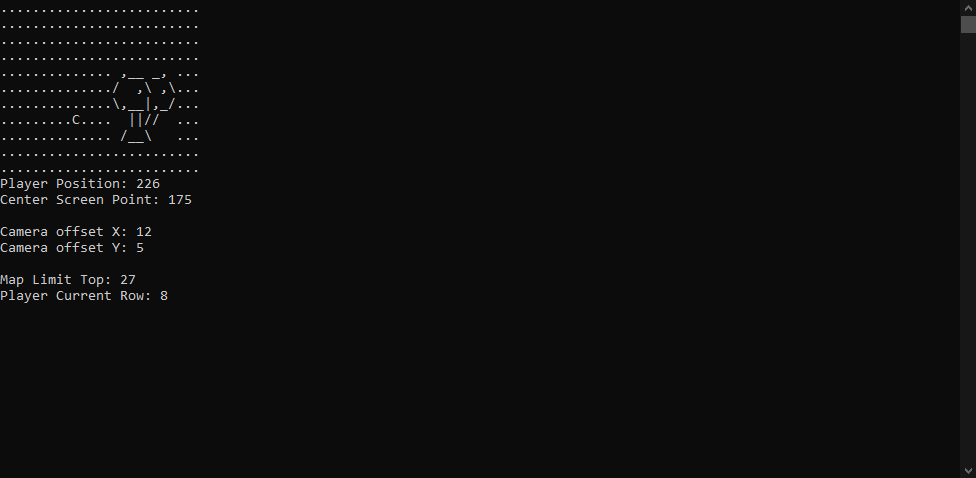
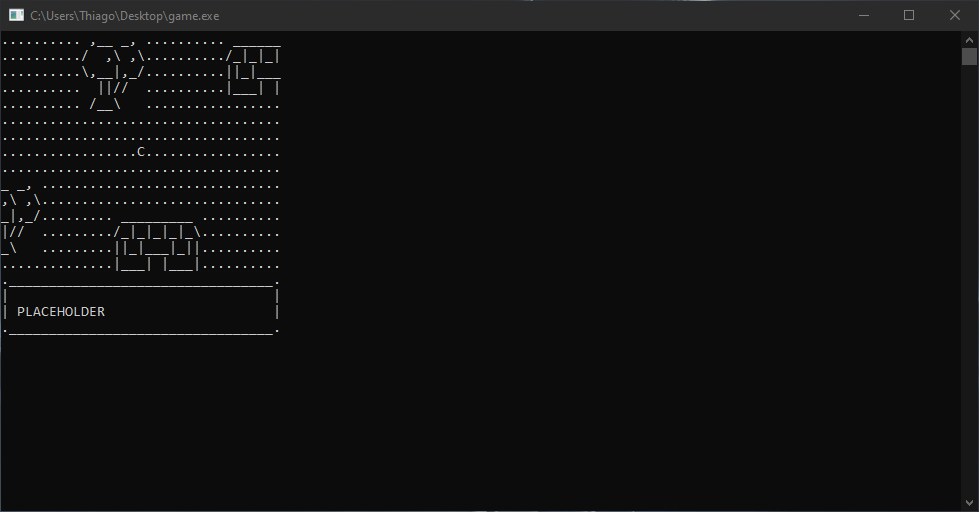
map Generation modified and README updated

Changed region(s): [[0.0, 0.0, 1.0, 0.5272], [0.0, 0.9665, 1.0, 1.0], [0.0, 0.5565, 0.2766, 0.6736]]

diff --git a/game.cpp b/game.cpp
@@ -2,8 +2,8 @@
 #include <conio.h>
 #include <vector>
 #include <windows.h>
-
-#define teste 11;
+#include <fstream>
+#include <math.h>
 
 using namespace std;
 
@@ -11,69 +11,75 @@ char player = 'C';
 char blankSpace = '.';
 char currentBeneathBlock = ' ';
 
-int mapSizeX=27,mapSizeY=13;
+vector<char> map;
 
-int mapSize = mapSizeX * mapSizeY;
+int mapSizeX=55,mapSizeY=25;
+int mapSize;
 
-int screenSizeX = 25,screenSizeY=11;
+int screenSizeX = 35,screenSizeY=15;
 
 int startCameraOffX = screenSizeX/2, startCameraOffY = screenSizeY/2;
 int cameraOffX = startCameraOffX, cameraOffY = startCameraOffY;
 
-int centerScreenPoint = mapSize/2;
-int startPlayerPos = mapSize/2;
-int playerPos = startPlayerPos;
+int centerScreenPoint;
+int playerPos;
 
 int currentPlayerRow;
 int currentScreenRow;
 
-vector<char> map;
-
-char house[4][11] = 
-{
-	{' ','_','_','_','_','_','_','_','_','_',' '},
-	{'/','_','|','_','|','_','|','_','|','_','\\'},
-	{'|','|','_','|','_','_','_','|','_','|','|'},
-	{'|','_','_','_','|',' ','|','_','_','_','|'}
+char inventory[4][35]{
+	{'.','_','_','_','_','_','_','_','_','_','_','_','_','_','_','_','_','_','_','_','_','_','_','_','_','_','_','_','_','_','_','_','_','_','.'},
+	{'|',' ',' ',' ',' ',' ',' ',' ',' ',' ',' ',' ',' ',' ',' ',' ',' ',' ',' ',' ',' ',' ',' ',' ',' ',' ',' ',' ',' ',' ',' ',' ',' ',' ','|'},
+	{'|',' ','P','L','A','C','E','H','O','L','D','E','R',' ',' ',' ',' ',' ',' ',' ',' ',' ',' ',' ',' ',' ',' ',' ',' ',' ',' ',' ',' ',' ','|'},
+	{'.','_','_','_','_','_','_','_','_','_','_','_','_','_','_','_','_','_','_','_','_','_','_','_','_','_','_','_','_','_','_','_','_','_','.'}
 };
 
-char tree[5][8] = 
-{
-	{' ',',','_','_',' ','_',',',' '},
-	{'/',' ',' ',',','\\',' ',',','\\'},
-	{'\\',',','_','_','|',',','_','/'},
-	{' ',' ','|','|','/','/',' ',' '},
-	{' ','/','_','_','\\',' ',' ',' '}
-};
+void readMap(){
+	ifstream mapFile( "map.txt" );
+  
+  for(string line; getline( mapFile, line ); )
+	{
+		for(int i = 0; i < line.size(); i++)
+		{
+			map.push_back(line[i]);
+		} 		
+	}
+	
+	mapFile.close();
+}
 
-void drawObj(int startHousePos,void *arr, int y,int x)
-{
+void setupInitialVar(){
+	mapSize = map.size();
+	centerScreenPoint = mapSize/2;
+	playerPos = mapSize/2;
+}
+
+void drawInventory(void *arr, int y,int x){
 	char (*obj)[y][x] = (char (*)[y][x]) arr;
 	
 	int arrayRow = y;
 	int arrayCol = x;
 		
-	int objPos = startHousePos;
 	for(int i=0;i < arrayRow; i++)
 	{
 		for(int x=0; x < arrayCol; x++)
-			map[objPos + x] = (*obj)[i][x];
-		objPos += mapSizeX;
-	}	
+			cout << (*obj)[i][x];
+		cout << "\n";
+	}
 }
 
-void createMap()
-{
-	for(int i=0; i<mapSize; i++)
-	{
-		map.push_back('.');
+void drawMapView(){
+	int centerDiagonalLeft = centerScreenPoint - (mapSizeX * cameraOffY) - cameraOffX;
+	int currentRow = 0;
+	for(int y=0;y < screenSizeY; y++)
+	{ 		
+		for(int x = centerDiagonalLeft + currentRow; x < centerDiagonalLeft + screenSizeX + currentRow; x++)
+		{
+			cout << map[x];
+		}
+		cout << "\n";
+		currentRow += mapSizeX;
 	}
-	
-	/// Drawing objs
-	// Houses
-	//drawObj(970,house,4,11);
-	// Trees
-	drawObj(150,tree,5,8);
 }
 
 void debugInfo()
@@ -92,23 +98,14 @@ void debugInfo()
 	cout << "Screen Current Row: " << currentScreenRow << endl;
 }
 
-void drawMap()
+void drawScreen()
 {
 	system("cls");
 	
-	int centerDiagonalLeft = centerScreenPoint - (mapSizeX * cameraOffY) - cameraOffX;
-	int currentRow = 0;
-	for(int y=0;y < screenSizeY; y++)
-	{ 		
-		for(int x = centerDiagonalLeft + currentRow; x < centerDiagonalLeft + screenSizeX + currentRow; x++)
-		{
-			cout << map[x];
-		}
-		cout << "\n";
-		currentRow += mapSizeX;
-	}	
+	drawMapView();
+	drawInventory(inventory,4,35);
 	
-	debugInfo();
+	//debugInfo();
 }
 
 void updatePlayerPos(int newPos)
@@ -142,7 +139,7 @@ void playerMov()
 		{
 			updateScreen(centerScreenPoint-mapSizeX);	
 		}			
-		drawMap();
+		drawScreen();
 	}	
 	else if (ch=='s'){		
 		if((currentPlayerRow+1) < mapSizeY){
@@ -151,7 +148,7 @@ void playerMov()
 		if (currentScreenRow+1+cameraOffY < mapSizeY){
 			updateScreen(centerScreenPoint+mapSizeX);	
 		}			
-		drawMap();
+		drawScreen();
 	}
 	else if (ch=='a'){		
 		if(playerPos > (currentPlayerRow*mapSizeX)){
@@ -160,7 +157,7 @@ void playerMov()
 		if(centerScreenPoint-cameraOffX > (currentScreenRow*mapSizeX)){
 			updateScreen(centerScreenPoint-1);
 		}
-		drawMap();
+		drawScreen();
 	}
 	else if (ch=='d'){		
 		if(playerPos < ((currentPlayerRow*mapSizeX) + mapSizeX - 1)){	
@@ -169,18 +166,18 @@ void playerMov()
 		if(centerScreenPoint+cameraOffX < ((currentScreenRow*mapSizeX) + mapSizeX - 1)){
 			updateScreen(centerScreenPoint+1);				
 		}
-		drawMap();
+		drawScreen();
 	} 
 		
 		
 	else if (ch == 't'){
-		updateScreen(centerScreenPoint-mapSizeX); drawMap();}
+		updateScreen(centerScreenPoint-mapSizeX); drawScreen();}
 	else if (ch == 'g'){	 			
-		updateScreen(centerScreenPoint+mapSizeX); drawMap();}	
+		updateScreen(centerScreenPoint+mapSizeX); drawScreen();}	
 	else if (ch == 'f'){
-		updateScreen(centerScreenPoint-1); 				drawMap();}	
+		updateScreen(centerScreenPoint-1); 				drawScreen();}	
 	else if (ch == 'h'){	 																														
-		updateScreen(centerScreenPoint+1); 				drawMap();}
+		updateScreen(centerScreenPoint+1); 				drawScreen();}
 }
 
 
@@ -195,10 +192,13 @@ void gameLoop()
 
 int main() 
 {
-	createMap();
+	readMap();
+	setupInitialVar();
+		
 	updatePlayerPos(playerPos);
 	updateScreen(centerScreenPoint);
-	drawMap();
+		
+	drawScreen();
 	
 	gameLoop();	
 

diff --git a/mapGenerator.cpp b/mapGenerator.cpp
@@ -1,0 +1,87 @@
+#include <iostream>
+#include <fstream>
+#include <vector>
+#include <math.h>
+
+using namespace std;
+
+vector<char> map;
+
+int mapSizeX,mapSizeY;
+int mapSize;
+
+char house[4][11] = 
+{
+	{' ','_','_','_','_','_','_','_','_','_',' '},
+	{'/','_','|','_','|','_','|','_','|','_','\\'},
+	{'|','|','_','|','_','_','_','|','_','|','|'},
+	{'|','_','_','_','|',' ','|','_','_','_','|'}
+};
+
+char tree[5][8] = 
+{
+	{' ',',','_','_',' ','_',',',' '},
+	{'/',' ',' ',',','\\',' ',',','\\'},
+	{'\\',',','_','_','|',',','_','/'},
+	{' ',' ','|','|','/','/',' ',' '},
+	{' ','/','_','_','\\',' ',' ',' '}
+};
+
+void setupVar()
+{
+	mapSizeX = 55;
+	mapSizeY = 25;
+	mapSize = mapSizeX * mapSizeY;
+}
+
+void genCustomMap()
+{	
+  for(int i=0; i < mapSize; i++)
+	{
+		map.push_back('.');
+	}
+}
+
+void drawObj(int startPos,void *arr, int y,int x)
+{
+	char (*obj)[y][x] = (char (*)[y][x]) arr;
+	
+	int arrayRow = y;
+	int arrayCol = x;
+		
+	int objPos = startPos;
+	for(int i=0;i < arrayRow; i++)
+	{
+		for(int x=0; x < arrayCol; x++)
+			map[objPos + x] = (*obj)[i][x];
+		objPos += mapSizeX;
+	}	
+}
+
+void writeOnFile()
+{
+	ofstream myfile;
+  myfile.open ("map.txt");
+  for(int i=0; i < mapSize; i++)
+	{
+		myfile << map[i];
+	}
+  myfile.close();
+}
+
+int main() {
+	setupVar();
+  genCustomMap();  
+  //Tree
+  drawObj(1124,tree,5,8);
+  drawObj(76,tree,5,8);
+  drawObj(558,tree,5,8);
+  //House
+  drawObj(685,house,4,11);
+  drawObj(94,house,4,11);
+  
+  writeOnFile();
+  
+	cout << "Done!" << endl;
+  return 0;
+}

diff --git a/README.md b/README.md
@@ -11,14 +11,17 @@ developed for Windows using Dev C++ with plans to expand to other platforms
 
 ![imggame](https://github.com/ThiagoZen/ASCII_RPG/blob/main/readme_resources/CMD.png)
 
+## Controls
+`w` `a` `s` `d` - Walk
+
 ## Enviroment
 The map will be generated in a one line array that will be shown at the screen according to the size defined, map will be customizable .
 
 
-## Mecanics
+## Mechanics
 The game will be an RPG with dungeons, cities and NPCs (With AI if I have the time and patience), also the game will contain dialogue and quests, inventory and a combat system.
 
-## The Art
+## Art Style
 As said before the game will be played fully in the terminal so the graphics will be ASCII characters, the following are some of the buildings/props created.
 
 House
